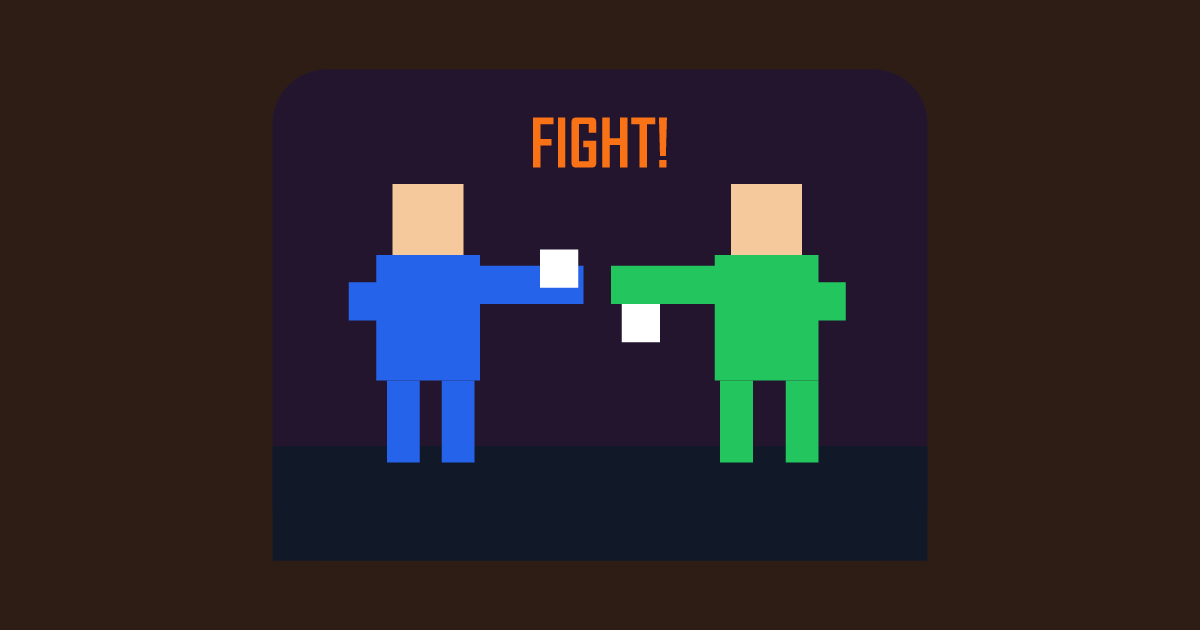
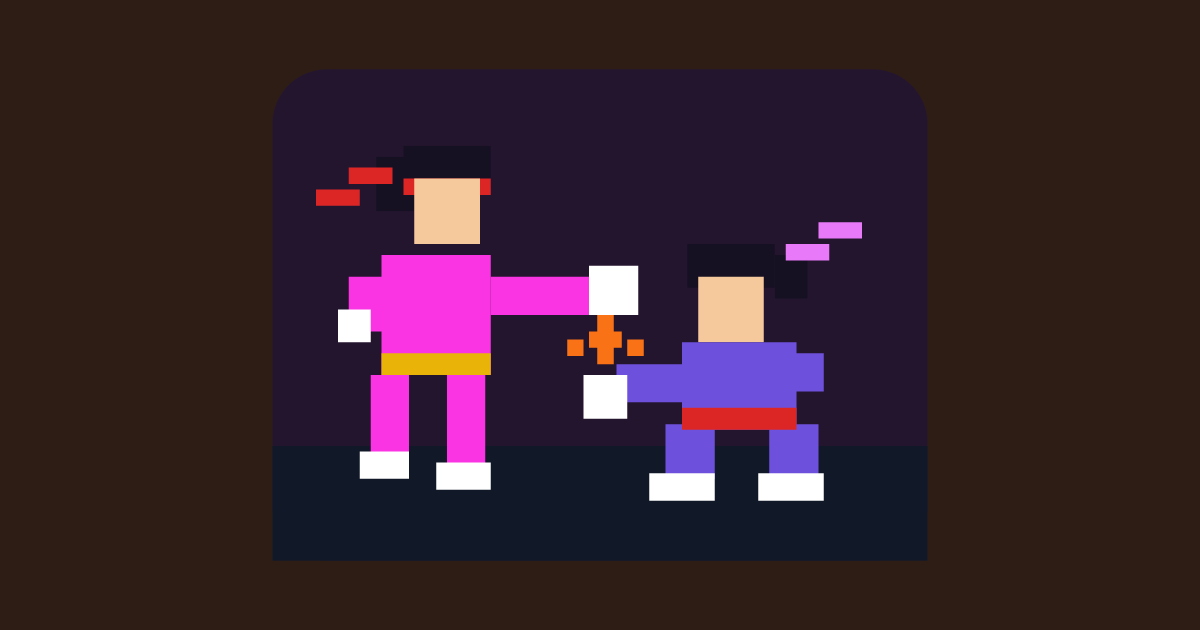
game: tap fighter: redraw the hub card from the authored sprites
The card was a placeholder from before fighter1.png/fighter2.png existed —
generic blue/green stick figures throwing the same punch. Redrawn as flat
pixel shapes in the actual fuchsia and blue, one fighter mid-punch and the
other crouched low to answer it, matching the sprites' real poses and
colours. Alt text (EN/FR) updated to match.

Changed region(s): [[0.2467, 0.2413, 0.74, 0.8143], [0.4317, 0.181, 0.555, 0.2714]]

diff --git a/www/src/games/tap-fighter/card.ts b/www/src/games/tap-fighter/card.ts
@@ -12,7 +12,7 @@ export const CARD: GameCard = {
     'Jump dodges a low kick; crouch dodges a high punch.',
     'Take fewer hits to win the round. First to three rounds wins.',
   ],
-  art: { src: art, alt: 'Two original pixel-art fighters in blue and green trading a punch and kick' },
+  art: { src: art, alt: 'Two original pixel-art fighters, one fuchsia and one blue, one throwing a punch and the other crouched low to answer it' },
   fr: {
     pitch: 'Choisissez six coups, puis regardez le combat',
     concept: 'Programmez six coups secrets. Dès que les deux combattants valident, le combat se déroule tout seul.',
@@ -21,7 +21,7 @@ export const CARD: GameCard = {
       'Sautez pour éviter un coup bas ; baissez-vous pour éviter un coup haut.',
       'Subissez moins d’impacts pour gagner la manche. Trois manches gagnées remportent le match.',
     ],
-    art: { alt: 'Deux combattants originaux en pixel art, bleu et vert, échangent un coup de poing et un coup de pied' },
+    art: { alt: 'Deux combattants originaux en pixel art, l’un fuchsia et l’autre bleu, l’un lançant un coup de poing et l’autre accroupi pour y répondre' },
   },
   accent: '#F97316',
   players: PLAYERS['tap-fighter'],
